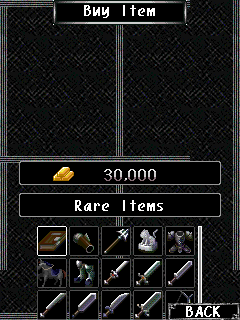
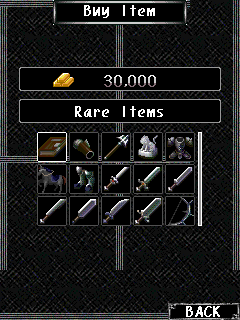
Gamevil Live Trade: kinds screen above the soft keys, description box grows
- ORIG-BUG B9 also in m.br() (Buy: the kinds after the category): the
  precedence of `255 - 64 + fK[6] >> 1` put the gold box at y 194 and
  the 5 grid rows at y 258..418, under the soft keys, while the screens
  before and after sit at the top (the "jumping" window). Now gold y 36,
  grid y 100..260, like the Warehouse fix.
- Wide description (config.WIDE_DESC): a text longer than 3 rows grows
  the box up to WIDE_DESC_MAX_LINES (5) instead of running the last row
  by; the rest is cut. Nothing scrolls any more.

Claude-Session: https://claude.ai/code/session_01Pra1eq8kjkqmwNb2qUqjrC

Changed region(s): [[0.0583, 0.1875, 0.9333, 1.0], [0.0583, 0.2188, 0.0875, 0.2812], [0.3208, 0.1875, 0.35, 0.2188]]

diff --git a/pyport/config.py b/pyport/config.py
@@ -63,7 +63,9 @@ ORIG_BUG = {
                  # kind: a general that was mid-skill leaves kind 2 -> the next enemy reads fn[..] -> NPE
     "B9": True,  # m.bv() 365 Gamevil Live Backpack / Warehouse grid: 255 - 38 + fK[6] puts the caption at
                  # y 194 under the description strip and the 3 rows at y 232..326, under the soft keys
-                 # -> 255 - (38 + fK[6] + 16 + 22): caption y 62, rows y 100..194, strip y 200
+                 # -> 255 - (38 + fK[6] + 16 + 22): caption y 62, rows y 100..194, strip y 200.
+                 # The same in m.br() (Buy: kinds after the category): 255 - 64 + fK[6] puts the gold
+                 # box at y 194 and the 5 rows at y 258..418 -> 255 - (64 + fK[6]): gold y 36, rows y 100
     "B10": True,  # m.java:257 Gamevil Live Buy, the lots of a page: the same 255 - 84 + fK[6] puts the
                   # 2 rows of lots at y 218..282 under the description strip (y 200)
                   # -> 255 - (84 + fK[6] + 10 + 32): gold y 52, rows y 136..200, strip y 200
@@ -168,10 +170,12 @@ AUTO_BUTTON = os.environ.get("POW_AUTO_BUTTON", "1") == "1"
 
 # PORT-EXTRA (asked by the player): the description of an item / skill / potion (Blacksmith,
 # Gear, Inventory, Skills, Assign Items; not Gamevil Live, whose grids leave no room) in a box as wide as the screen, in up to
-# WIDE_DESC_LINES lines, instead of the narrow strip whose one line runs by.
+# WIDE_DESC_LINES lines, instead of the narrow strip whose one line runs by. A longer text
+# grows the box, up to WIDE_DESC_MAX_LINES lines (nothing runs by; the rest is cut).
 # POW_WIDE_DESC=0 = the original strip.
 WIDE_DESC = os.environ.get("POW_WIDE_DESC", "1") == "1"
 WIDE_DESC_LINES = 3
+WIDE_DESC_MAX_LINES = 5
 
 # PORT-EXTRA (asked by the player): full screen. F11 or Alt+Enter switch it, and so does
 # Options > Screen; the choice is remembered (RecordStore "pow_display"). POW_FULLSCREEN=1 / 0

diff --git a/pyport/pow/game/menus.py b/pyport/pow/game/menus.py
@@ -1300,7 +1300,11 @@ class Menus(GameCanvas):
             return
         x = Menus.WIDE_DESC_X
         w = GameCanvas.screen_w - 2 * x
-        rows = config.WIDE_DESC_LINES
+        Gfx.set_font(GameCanvas.font_white)
+        lines = Menus.wide_description_lines(info.text, w - 8)
+        # a longer text grows the box (up to WIDE_DESC_MAX_LINES rows): nothing runs by
+        rows = min(config.WIDE_DESC_MAX_LINES, max(config.WIDE_DESC_LINES, len(lines)))
+        lines = lines[:rows]
         h = rows * Menus.WIDE_DESC_LINE + 6
         y = info.rect.y + GameCanvas.view_y
         bottom = GameCanvas.screen_h - 20           # above the soft-key bar (BACK)
@@ -1309,18 +1313,6 @@ class Menus(GameCanvas):
         self.draw_box(x, y, w, h, False)
         if GameCanvas.popups.kind != 0:            # a popup covers the top of the box only
             return
-        Gfx.set_font(GameCanvas.font_white)
-        lines = Menus.wide_description_lines(info.text, w - 8)
-        if len(lines) > rows:                        # too long even so: the last row runs by
-            rest = " / ".join(lines[rows - 1:])
-            lines = lines[:rows - 1]
-            tw = GameCanvas.measure_text(rest)
-            info.text_x = i16(info.text_x - 5)
-            if info.text_x < x + 4 - tw - 20 or info.text_x > x + w:
-                info.text_x = i16(x + w - 20)
-            Gfx.push_clip(x + 1, y, w - 2, h)
-            Gfx.draw_string(rest, info.text_x, y + 3 + (rows - 1) * Menus.WIDE_DESC_LINE, 0)
-            Gfx.pop_clip()
         for idx, line in enumerate(lines):
             Gfx.draw_string(line, x + 4, y + 3 + idx * Menus.WIDE_DESC_LINE, 0)
 

diff --git a/pyport/pow/game/live_screen.py b/pyport/pow/game/live_screen.py
@@ -177,7 +177,10 @@ class LiveScreen(Live):
         self.draw_list_screen()
 
     def draw_buy_kinds(self):  # m.java:215-224  (Buy: kinds)
-        i = 20 + (255 - 64 + GameCanvas.cursor[6] >> 1)
+        if config.ORIG_BUG["B9"]:      # ORIG-BUG B9: as m.bv(): gold box, caption and grid above the soft keys
+            i = 20 + (255 - (64 + GameCanvas.cursor[6]) >> 1)
+        else:
+            i = 20 + (255 - 64 + GameCanvas.cursor[6] >> 1)
         self.draw_hero_gold(i)
         i += 32
         self.draw_caption_box(Live.category_names[Live.category], i)

diff --git a/pyport/README.md b/pyport/README.md
@@ -121,8 +121,8 @@ R3 геймпада вмикає й вимикає режим. Герой сам
 
 **Широкий опис** (PORT-EXTRA `config.WIDE_DESC`): опис предмета, скіла чи зілля в Blacksmith, Gear,
 Inventory, Skills і Assign Items — у рамці на всю ширину екрана, до трьох рядків (назва, стати, рівень,
-ціна), замість вузької смужки, де текст біжить одним рядком. Якщо й трьох рядків мало, біжить лише
-останній. Так само в Gamevil Live: Warehouse / Backpack, Buy (лоти), Sell (ціна; рамка під полем ціни, щоб
+ціна), замість вузької смужки, де текст біжить одним рядком. Якщо трьох рядків мало, рамка росте до
+п'яти (`WIDE_DESC_MAX_LINES`), нічого не біжить. Так само в Gamevil Live: Warehouse / Backpack, Buy (лоти), Sell (ціна; рамка під полем ціни, щоб
 не закрити предмет) і Gift List (рамка під коробкою подарунка). `POW_WIDE_DESC=0` — як в оригіналі.
 
 **Геймпад / джойстик** (PORT-EXTRA `pow/midp/gamepad.py`, `config.GAMEPAD`): лівий стік і хрестовина =
@@ -311,7 +311,7 @@ platform»), тому `pow/midp/graphics.py` у браузері декодує 
 | B6 | `ar.java` 179 | меню паузи на карті, Items: FIRE на 5-му слоті відкривав Help, бо умова `cM[0] == 10 && cM[1] == 4` не перевіряє `cR.a == 1`. Після повернення в Items лічильник рядків лишався 7 на 5 слотів, тож RIGHT ставив курсор на 6-й і 7-й слоти, і виникав ArrayIndexOutOfBounds. Тепер Help відкривається лише з рядка списку. Знайдено фазером випадкових натискань (B6-B8) |
 | B7 | `e.java` 2694-2707 | Blacksmith → Combine, коли предметів менше трьох: попап 39 виходить поверх сітки, яка зберігає прокрутку й курсор (`fK[8]`, `fK[18]`) останнього екрана із сіткою. Після 9-рядкового Warehouse у Gamevil Live вони вказують за `af[24]`, і виникає ArrayIndexOutOfBounds. Тепер прокрутка й курсор скидаються |
 | B8 | `ag.java` 872-967 | вхід на карту обнуляє дані ефекту ворога (`fn = null`), але не його вид, хоча вид ефекту героя обнуляє. Генерал, який був посеред скіла, лишає вид 2, і наступний ворог читає `fn[..]`, тобто NullPointerException. Тепер вид теж обнуляється |
-| B9 | `m.bv()` 365 | Gamevil Live, сітка Backpack / Warehouse (і Sell): `255 - 38 + fK[6]` замість `255 - (38 + fK[6] + 16 + 22)` ставить заголовок під смугу опису (y 194), а 3 ряди сітки на y 232..326, під софт-кнопки. Тепер заголовок y 62, сітка y 100..194, смуга опису під нею (y 200) |
+| B9 | `m.bv()` 365, `m.br()` 215 | Gamevil Live, сітка Backpack / Warehouse (і Sell): `255 - 38 + fK[6]` замість `255 - (38 + fK[6] + 16 + 22)` ставить заголовок під смугу опису (y 194), а 3 ряди сітки на y 232..326, під софт-кнопки. Тепер заголовок y 62, сітка y 100..194, смуга опису під нею (y 200). Те саме в Buy після вибору рідкості (`m.br()`): `255 - 64 + fK[6]` ставив золото на y 194 і 5 рядів сітки на y 258..418; тепер золото y 36, сітка y 100..260 |
 | B10 | `m.java` 257 | Gamevil Live, Buy, лоти сторінки: та сама помилка, `255 - 84 + fK[6]` замість `255 - (84 + fK[6] + 10 + 32)`, ставить 2 ряди лотів на y 218..282, під смугу опису (y 200). Тепер золото y 52, ряди y 136..200, смуга під ними |
 | B11 | `m.bl()` 97 | Gamevil Live, Sell, ціна: смуга описує `ag.cz.Y[fK[18]]` (рюкзак) і тоді, коли предмет продається зі складу, тож опис порожній або чужий. Тепер описується предмет зі складу |
 
